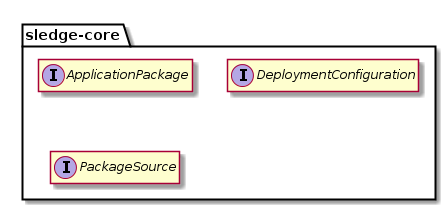
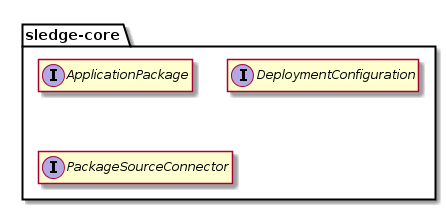
Docs: Updated architecture

Changed region(s): [[0.0583, 0.7143, 0.5538, 0.9143]]

diff --git a/docs/src/main/markdown/sledge-architecture.md b/docs/src/main/markdown/sledge-architecture.md
@@ -116,7 +116,7 @@ The Apache Sling web framework.
 
 
 sledge-core package
--------
+-------------------
 
 ![Building blocks sledge-core][building-block-core-diagram]
 
@@ -126,12 +126,12 @@ sledge-core package
 
 The ApplicationPackage provides methods for getting data out of a Application package provided by a Package source connector:
 
-- General information: version, group, name, description, etc.
-- List of bundles
+- General information: version, groupId, artifactId, description, etc.
+- List of contents
 
-### PackageSource
+### PackageSourceConnector
 
-The PackageSource defines methods for loading Application packages from a specific source (local repository, Adobe Package Manager, Nexus repository, etc.). It returns a list of ApplicationPackage objects.
+The PackageSourceConnector defines methods for loading Application packages from a specific source (local repository, Adobe Package Manager, Nexus repository, etc.). It returns a list of ApplicationPackage objects.
 
 ### DeploymentConfiguration
 
@@ -139,6 +139,25 @@ The DeploymentConfiguration is the central configuration for the installation of
 
 - Deployment locations for bundles
 - Configurations for bundles
+
+
+sledge-connectors package
+-------------------------
+
+TODO
+![Building blocks sledge-connectors][building-block-connectors-diagram]
+
+[building-block-connectors-diagram]: ../plantuml-generated/building-block-connectors-diagram.png "Sledge Connectors - Building blocks"
+
+
+sledge-webapp package
+---------------------
+
+TODO
+![Building blocks sledge-webapp][building-block-webapp-diagram]
+
+[building-block-webapp-diagram]: ../plantuml-generated/building-block-webapp-diagram.png "Sledge Webapp - Building blocks"
+
 
 
 Concepts

diff --git a/docs/README.md b/docs/README.md
@@ -2,3 +2,7 @@ Sledge - Docs
 ===================
 
 The Documentation module.
+
+Contents:
+
+- Architecture
